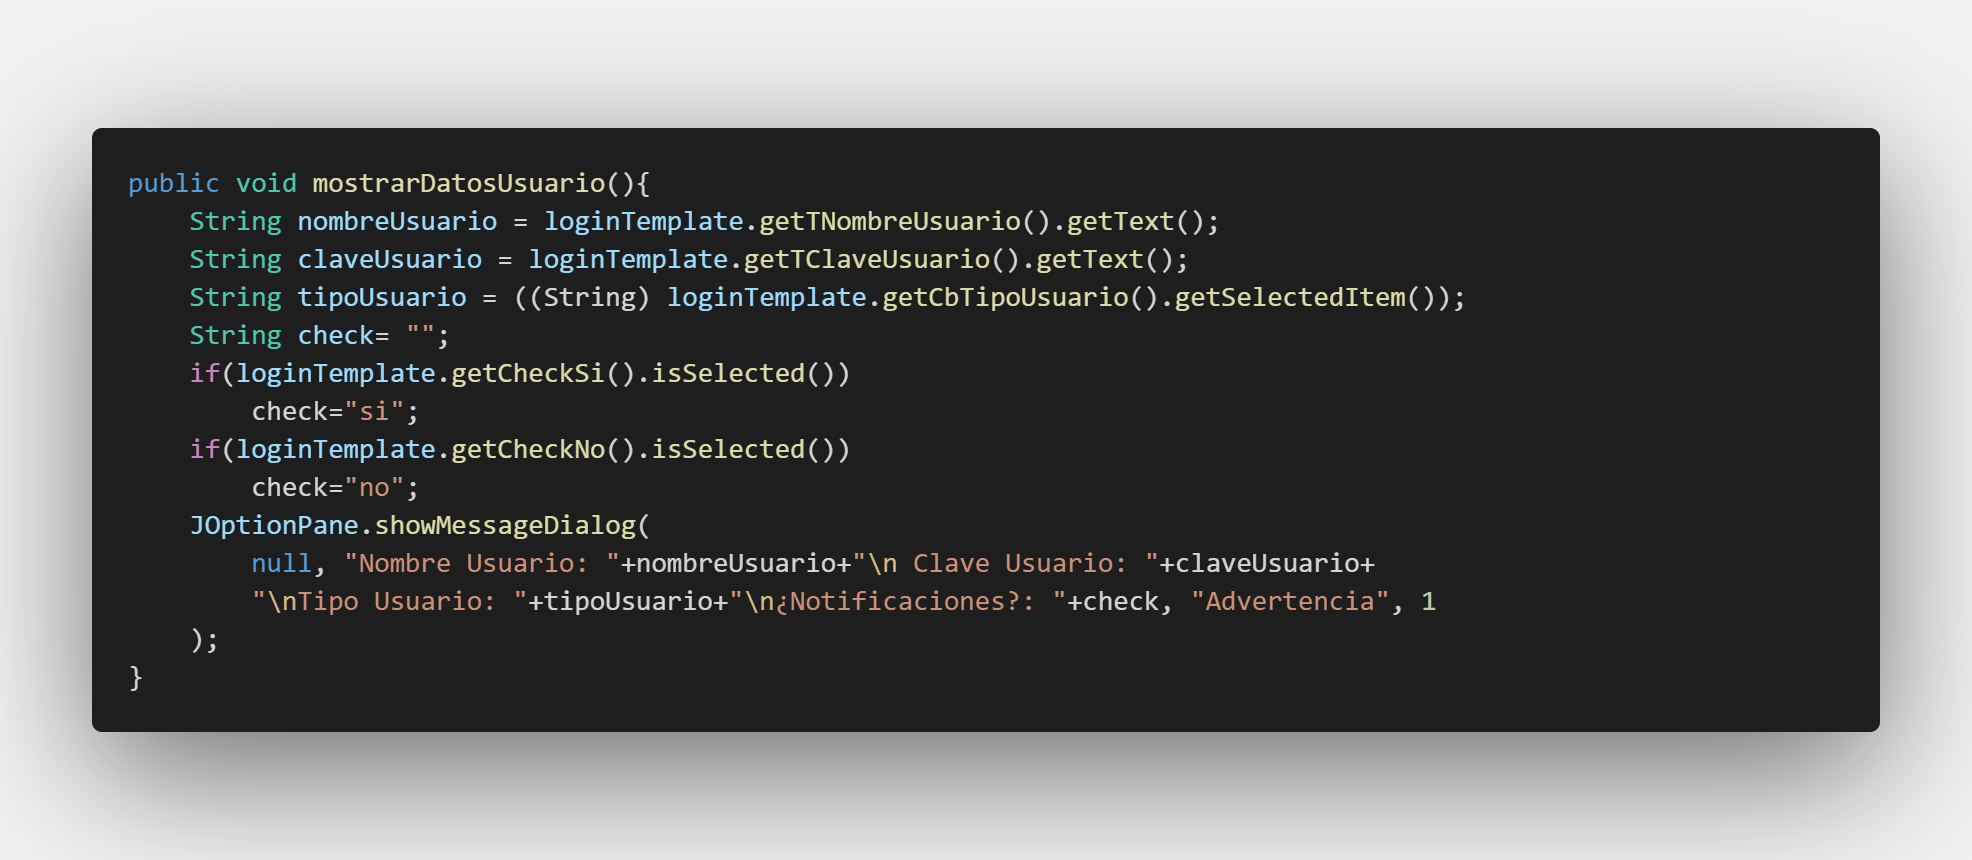
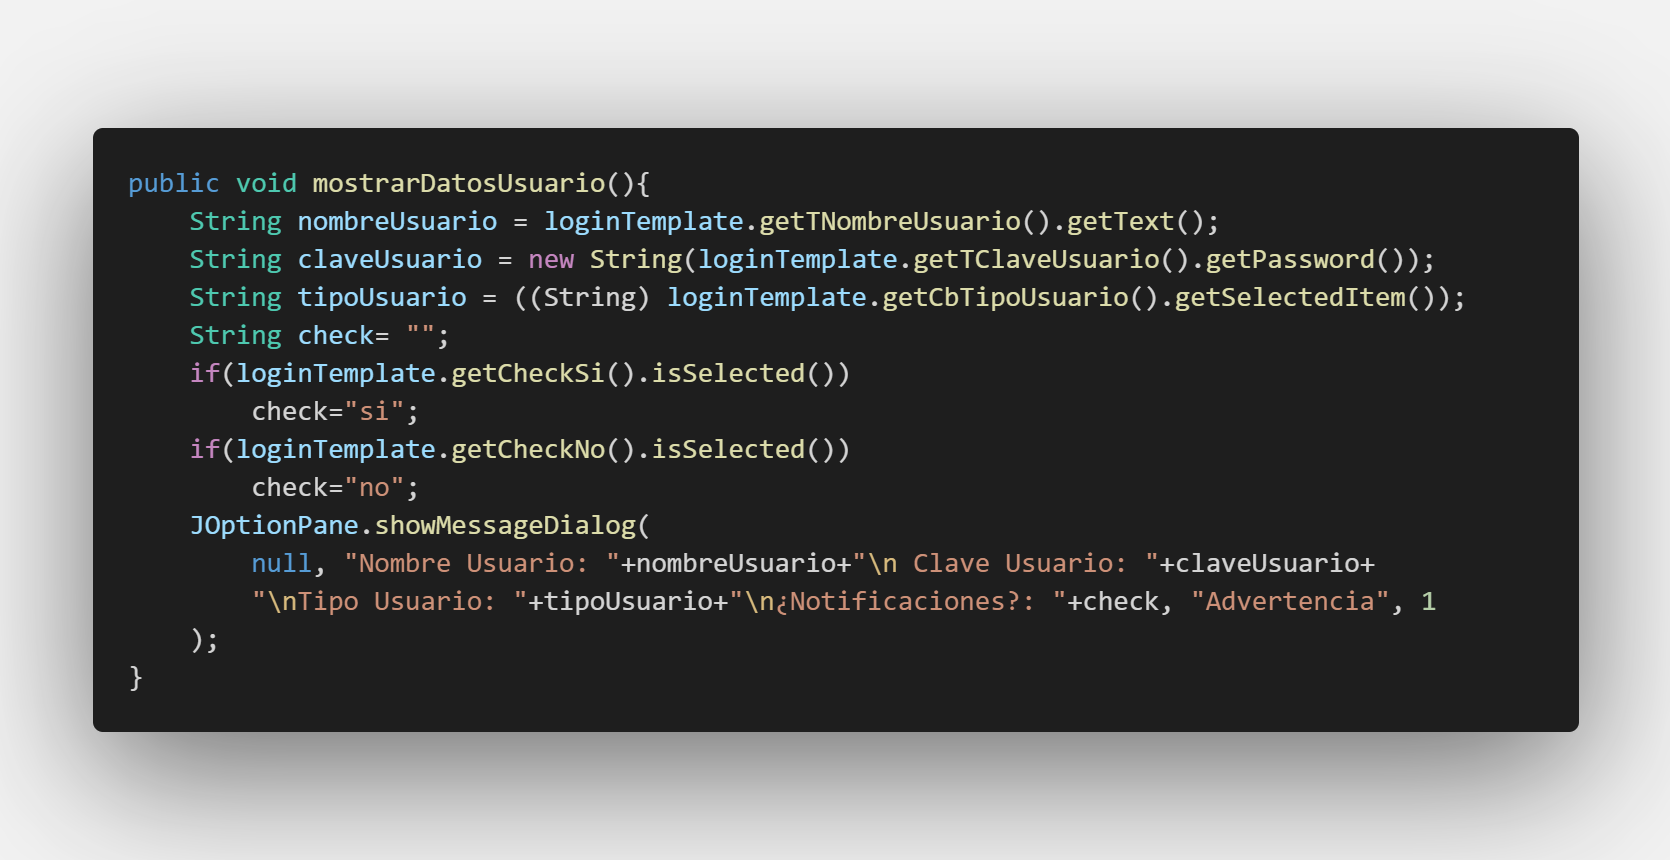
Se termina explicacion de eventos

Changed region(s): [[0.0311, 0.1512, 0.8719, 0.8465], [0.9341, 0.1512, 0.9653, 0.8465], [0.0934, 0.7256, 0.1246, 0.7558]]

diff --git a/README.md b/README.md
@@ -189,6 +189,13 @@ También tiene ciertas Características como:
   <p>Inyección desde la clase Component</p>
 </div>
 
+**Nota:** Como nuestra clase **Template** ahora necesita un objeto en su constructor dentro de la clase ejecutora **App** se va a llamar a la clase **Component**.
+
+<div align="center">
+  <img  src="./resources/codigo6.png">
+  <p>Llamada a la clase LoginComponent desde App</p>
+</div>
+ 
 ## Explicación Inyección de dependencia
 
 Esta inyeccion se hace de esta forma para tener una comunicación permanente entre las dos clases de forma bidireccional. Asi cuando la clase **Template** necesite algo de la lógica de la clase **Component** podrá hacerlo a traves de su objeto y de igual manera cuando la clase **Component** quiera enviar información a la interfaz gráfica podrá hacerlo a traves del objeto de esta.
@@ -377,9 +384,7 @@ if(e.getSource()== loginTemplate.getBEntrar()){
 }
 ```
 
-### **Obtención de datos desde formularios de interfaz gráfica**
-
-Lo primero que haremos es crear nuestro método **MostrarDatosUsuario** en nuestra clase, también crearemos el método **entrar** para evitar inconvenientes:
+Es necesario entonces crear nuestro métodos **mostrarDatosUsuario** y **entrar** en nuestra clase, estos métodos pueden ir al final de la clase, justo por debajo del método **ActionPerformed**:
 ```javascript
 public void mostrarDatosUsuario(){
 
@@ -389,6 +394,9 @@ public void entrar(){
 
 }
 ```
+
+### **Obtención de datos desde formularios de interfaz gráfica**
+
 Para poder obtener el texto de alguno de los objetos gráficos es necesario obtener primero el objeto, esto se realizara a traves del objeto de la **clase Template** seguido del método **get** correspondiente, una vez obtenido el objeto es posible obtener el valor de lo escrito o escogido por el usuario de la siguiente manera:
 
 ```javascript
@@ -411,11 +419,25 @@ public void mostrarDatosUsuario(){
     String nombreUsuario = loginTemplate.getTNombreUsuario().getText();
 }
 ```
-El anterior proceso se puede realizar de la misma manera con el JPasswordField:
+El anterior proceso se podría realizar de la misma manera con el JPasswordField:
 
 ```javascript
     String claveUsuario = loginTemplate.getTClaveUsuario().getText();
 ```
+
+El anterior código funciona, sin embargo, es posible que el editor de texto lo marque como tachado o saque una advertencia, esto es debido a que en versiones posteriores este código dejara de funcionar, entonces en el futuro cuando corras este código ya no funcione esta acción.
+
+Una alternativa para los JPasswordField es la siguiente:
+```javascript
+    String claveUsuario = new String(loginTemplate.getTClaveUsuario().getPassword());
+```
+
+Se puede notar varias cosas:
+* Se usa el método **getPassword** que devuelve un arreglo de tipo **char** es decir un arreglo donde cada posición es un carácter escrito.
+* Como queremos manejar la clave en forma de String debemos manejar un String en forma de objeto (java permite esto) y es necesario ejemplificarlo haciendo **new String()** donde en su constructor obtendrá el arreglo de char y asi convertirlo en un String común.
+
+Como por ahora funciona se puede usar cualquiera de los dos métodos sin embargo por prevención es preferible usar el segundo enfoque.
+
 **Nota:** El codigo anterior debe estar adentro del método **mostrarDatosUsuario**.
 
 Para un **JComboBox** es necesario llamar al método:
@@ -476,3 +498,31 @@ De esta forma hemos comprobado que nuestros métodos para la obtención del valo
 ### **Abrir Vista Principal**
 
 Suponiendo que ya se ha creado previamente todo el componente de vista principal (Clase Template y Clase Component con su Inyección de dependencia)
+
+<div align="center">
+  <img  src="./resources/paquetes2.png">
+  <p>Creación previa del componente VistaPrincipal</p>
+</div>
+
+Ahora en nuestra clase **LoginComponent** vamos a declarar un objeto de tipo **VistaPrincipalComponent**
+
+<div align="center">
+  <img  src="./resources/codigo7.png">
+  <p>Declaración objeto de tipo VistaPrincipalComponent desde LoginComponent</p>
+</div>
+
+Aquí se evidencia que la comunicación entre componentes se realizara desde las clases **Component**.
+
+Ahora nos ubicaremos en nuestro método **entrar** y escribimos:
+```javascript
+this.vistaPrincipal = new VistaPrincipalComponent();
+loginTemplate.setVisible(false);
+```
+Suceden 2 cosas:
+* Se ejemplifica el objeto de la clase **VistaPrincipalComponent**
+* Se le dice al objeto de la clase **LoginTemplate** que ya no sea visible.
+
+Ahora cuando oprimimos el botón entrar notamos que primero mostrara el mensaje con los datos proporcionados por el usuario y después abrirá la vista principal y cerrara el login.
+
+# Implementación de componentes gráficos 
+
